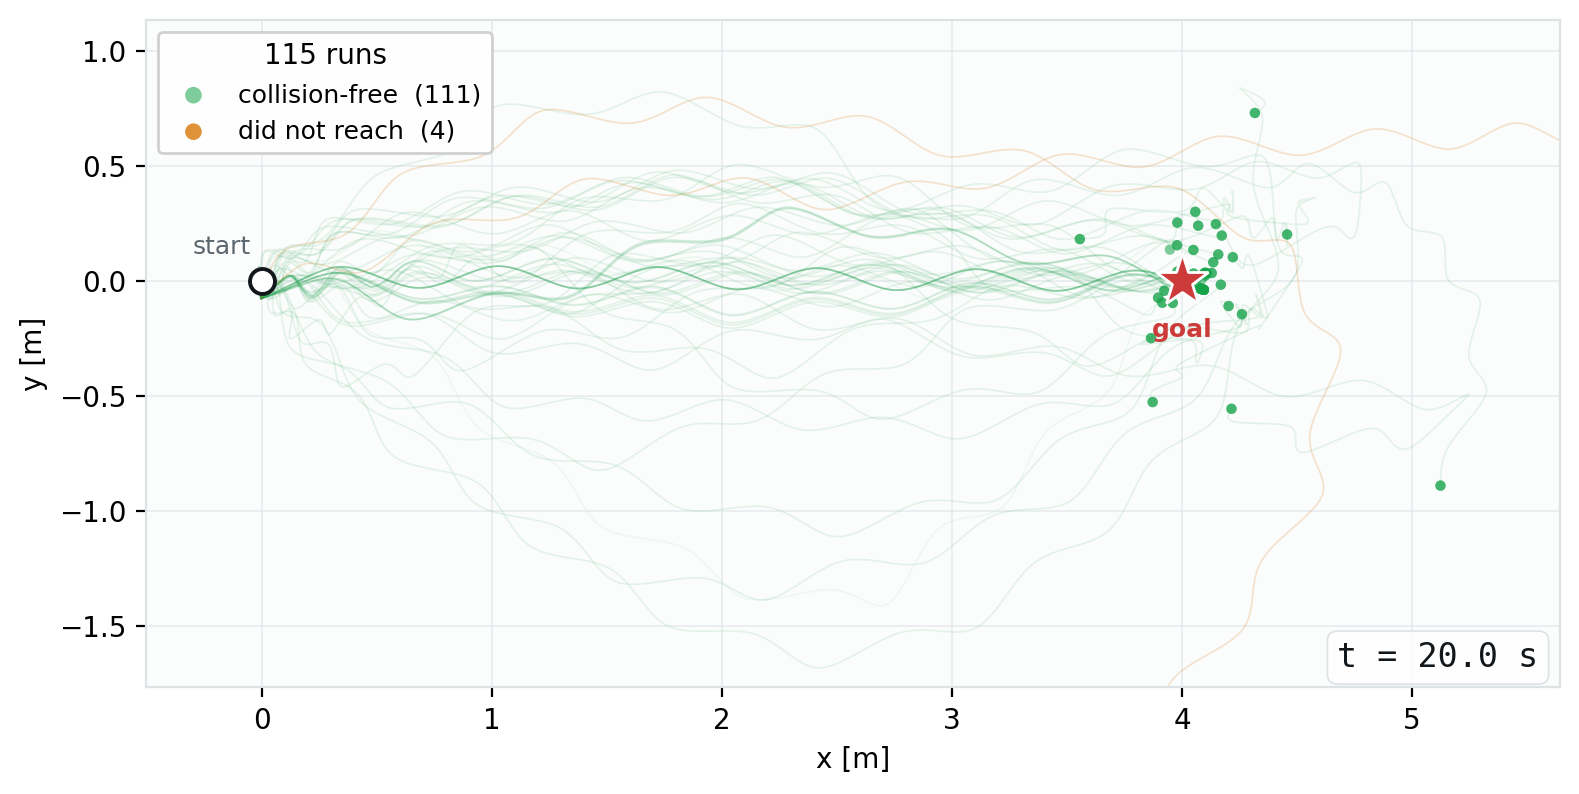
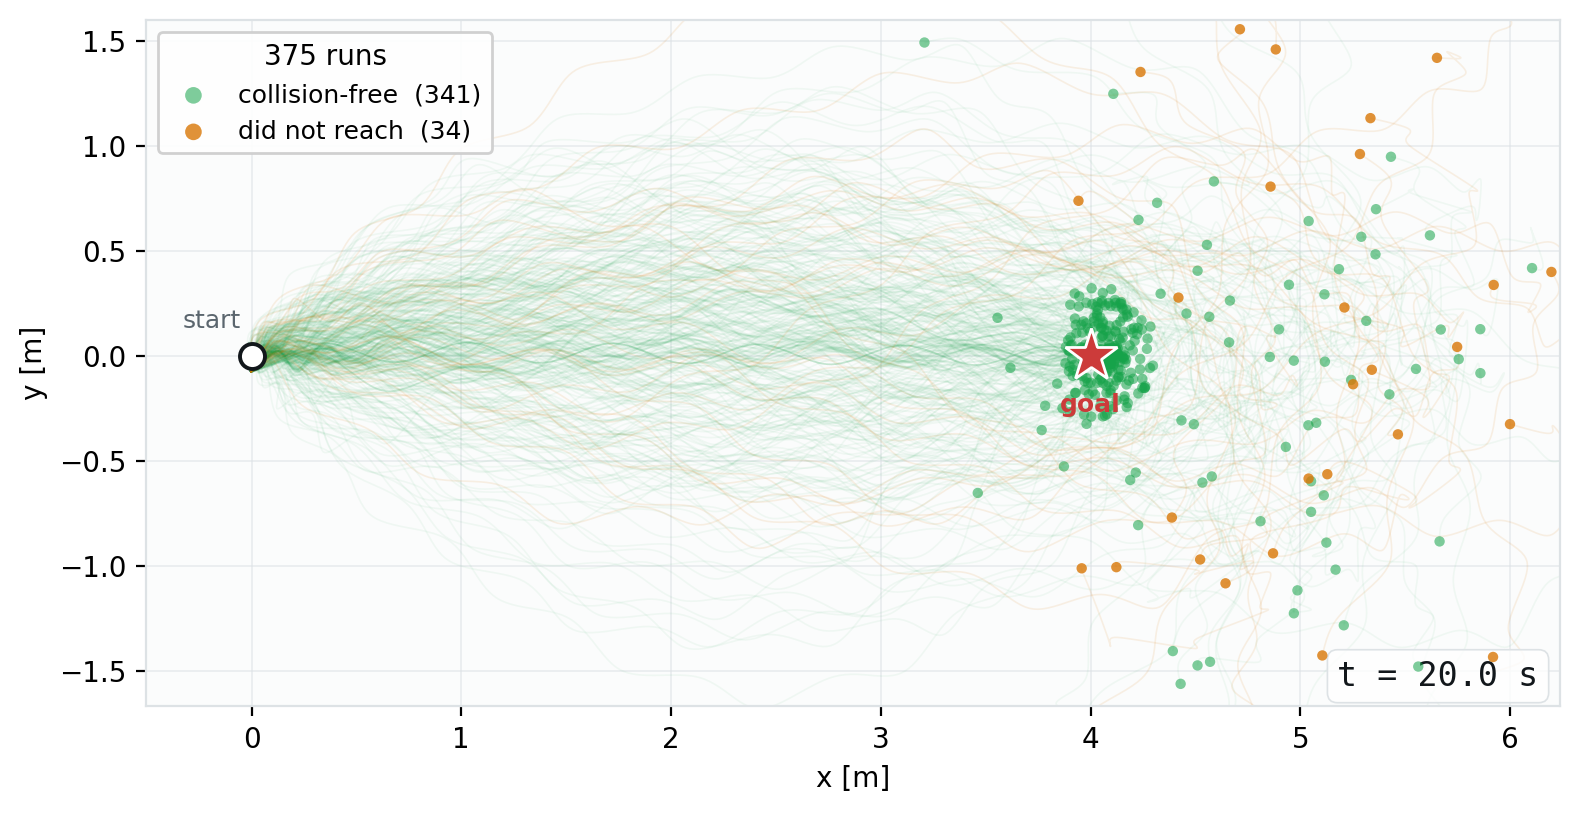
Full-dataset deck: real numbers, failure heatmap, 2 ensembles
Rebuilt from the completed 1110-run dataset (750 scenario + 360 plane):

- Slide 1: two stacked ensemble GIFs (perception / ground truth), 375 runs each,
  colour-optimised to fit the 16 MB artifact limit; run counts corrected
  (750 scenario, 360 plane).
- Slide 3: text rewritten to the real numbers -- scripted crowds ~100% (camera
  costs <=5%), but the contested-goal Random square drops 89% (266/300) ground
  truth to 56% (167/300) with the depth camera. Perception's cost concentrates
  on the one hard scenario, not uniform.
- Slide 4: qh_zoom failure-boundary heatmap -- collisions live purely in the
  crowd-yields-nothing column (safety follows the crowd), timeouts in the
  passive-robot row (liveness follows the robot).

diff --git a/experiments/build_deck.py b/experiments/build_deck.py
@@ -41,9 +41,10 @@ SLIDES = [
       body="""<div class="split">
       <div><h4>What we ran</h4><ul>
       <li>Six repeatable crowd scenarios, robot walking origin&nbsp;&rarr;&nbsp;(4,&nbsp;0)&nbsp;m.</li>
-      <li><b class="num">173</b> runs behind slides&nbsp;1&amp;&nbsp;3: every scenario under
-      <strong>ground truth</strong> and the <strong>onboard depth camera</strong>, 10 seeds each.</li>
-      <li>A <b class="num">180</b>-run responsibility sweep behind slide&nbsp;4 (the failure boundary).</li>
+      <li><b class="num">750</b> runs behind slides&nbsp;1&amp;&nbsp;3: every scenario under
+      <strong>ground truth</strong> and the <strong>onboard depth camera</strong> (375 each),
+      random-heavy since it is the only scenario whose layout the seed changes.</li>
+      <li>A <b class="num">360</b>-run responsibility sweep behind slide&nbsp;4 (the failure boundary).</li>
       <li>Headless, 10 runs at once; each with its own <code>ROS_DOMAIN_ID</code> — without it,
       parallel runs share a DDS domain and one run's ORCA steers on another's odometry.</li>
       <li>Wilson 95&nbsp;% intervals for rates; Wilcoxon signed-rank for paired tests.</li></ul></div>
@@ -58,9 +59,9 @@ SLIDES = [
       <strong>onboard perception</strong> on top, <strong>ground truth</strong> below. Same crowds, two
       sensing conditions, the whole evaluation in two frames:</p>""",
       ensembles=[("ensemble_perception.gif",
-                  "Onboard depth camera — 500 runs overlaid"),
+                  "Onboard depth camera — 375 runs overlaid"),
                  ("ensemble_all.gif",
-                  "Ground truth — 500 runs overlaid")],
+                  "Ground truth — 375 runs overlaid")],
       ensemble=False, fig=None, fig2=None, take=None, gifs=False),
 
  dict(arc="scenarios", qid="The scenarios",
@@ -80,17 +81,18 @@ SLIDES = [
 
  dict(arc="results", qid="Collision results",
       head="Collision-free almost everywhere — perception included",
-      sub="Collision-free arrivals per scenario: ground truth vs. the onboard depth camera, 10 seeds each",
-      body="""<p>Above the <strong>80&nbsp;% project bar</strong> in every scenario, on both sensors. The two
-      hard cases are the contested-goal <strong>Random</strong> square (80&nbsp;% ground truth, 70&nbsp;%
-      perception) and, mildly, <strong>Corridor</strong> and <strong>Circle</strong> on the camera.</p>
-      <p><strong>Onboard perception now tracks ground truth.</strong> After the per-camera fusion fix, the
-      depth camera lands within one or two runs of ground truth everywhere, and minimum clearance is
-      statistically unchanged between the two (Wilcoxon <b class="num">p = 0.06</b> over 50 pairs) — the
-      earlier collapse, where an inflated radius estimate made the robot flee phantom obstacles, is gone.</p>""",
+      sub="Collision-free arrivals per scenario: ground truth vs. the onboard depth camera (raw counts under each bar)",
+      body="""<p><strong>On the scripted crowds it is essentially solved</strong> — 100&nbsp;% on ground
+      truth, and the onboard depth camera costs at most one run in twenty (Crossing/Corridor/Circle 95&nbsp;%).
+      The per-camera fusion fix did its job: no more fleeing phantom obstacles.</p>
+      <p><strong>The cost concentrates on the hard scenario.</strong> The contested-goal <strong>Random</strong>
+      square is where both the crowd and perception bite: <b class="num">89&nbsp;%</b> collision-free on ground
+      truth (266/300) drops to <b class="num bad">56&nbsp;%</b> with the depth camera (167/300) — a
+      33-point gap. A dense crowd converging on the goal is exactly where the camera's tracks merge and
+      mislead, so the one scenario that stresses the planner is also the one that stresses perception.</p>""",
       fig="slide3_collisions", ensemble=False, gifs=False, fig2=None,
-      take=("ok", "Nominal crowds are essentially solved. So the honest next question is not <em>does it "
-            "work</em> but <em>what has to break for it to fail</em> — which is the whole point of slide&nbsp;4.")),
+      take=("warn", "So it is not uniformly solved — the difficulty is all in the dense, contested crowd. "
+            "Slide&nbsp;4 opens that scenario up: <em>what</em>, exactly, makes it fail?")),
 
  dict(arc="failure", qid="Where it fails",
       head="It fails when the crowd stops yielding — not when the robot does",
